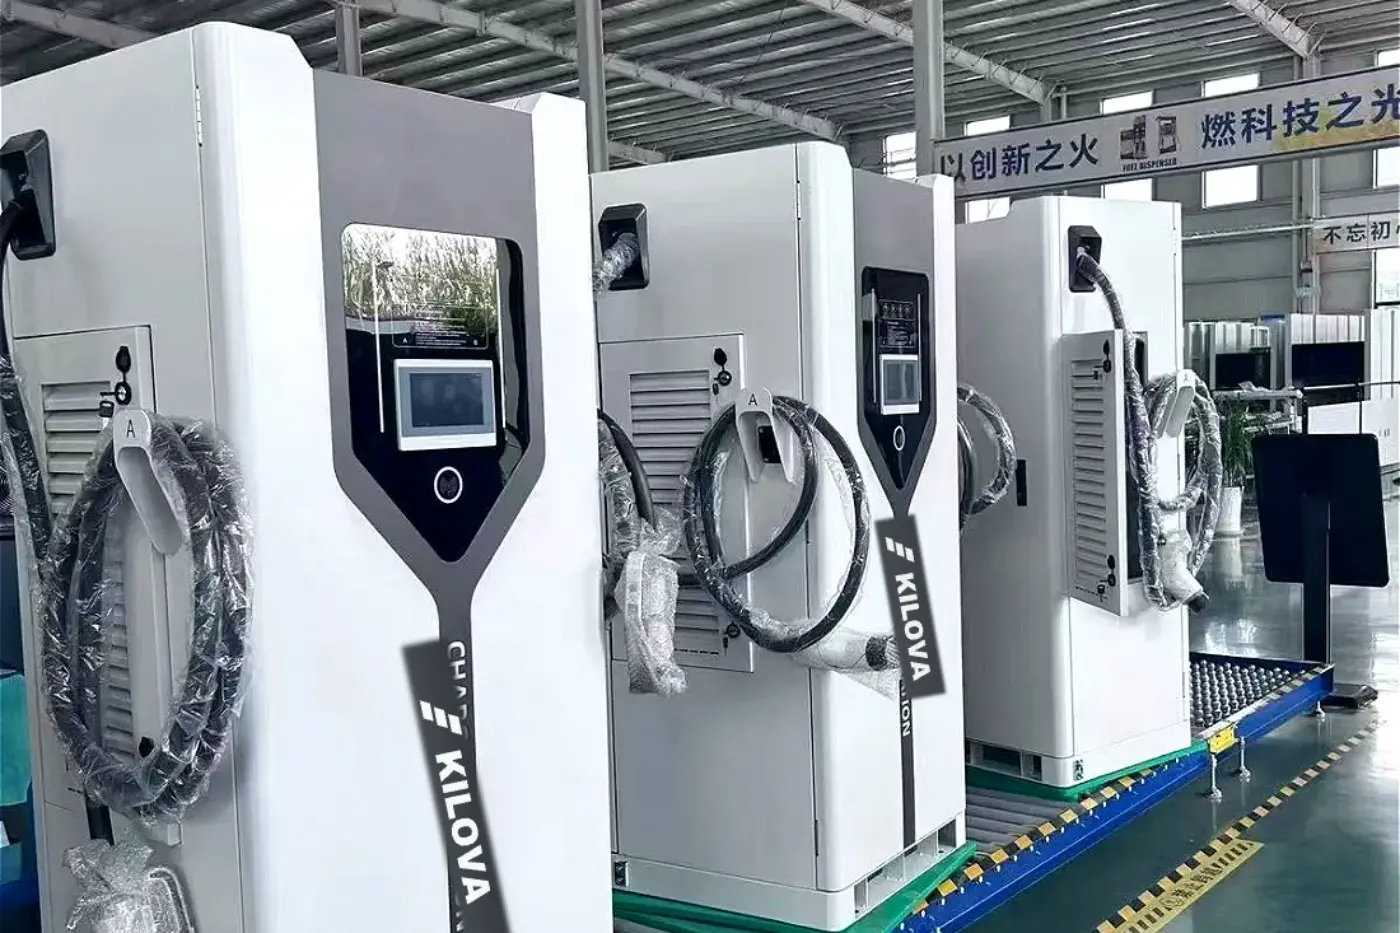
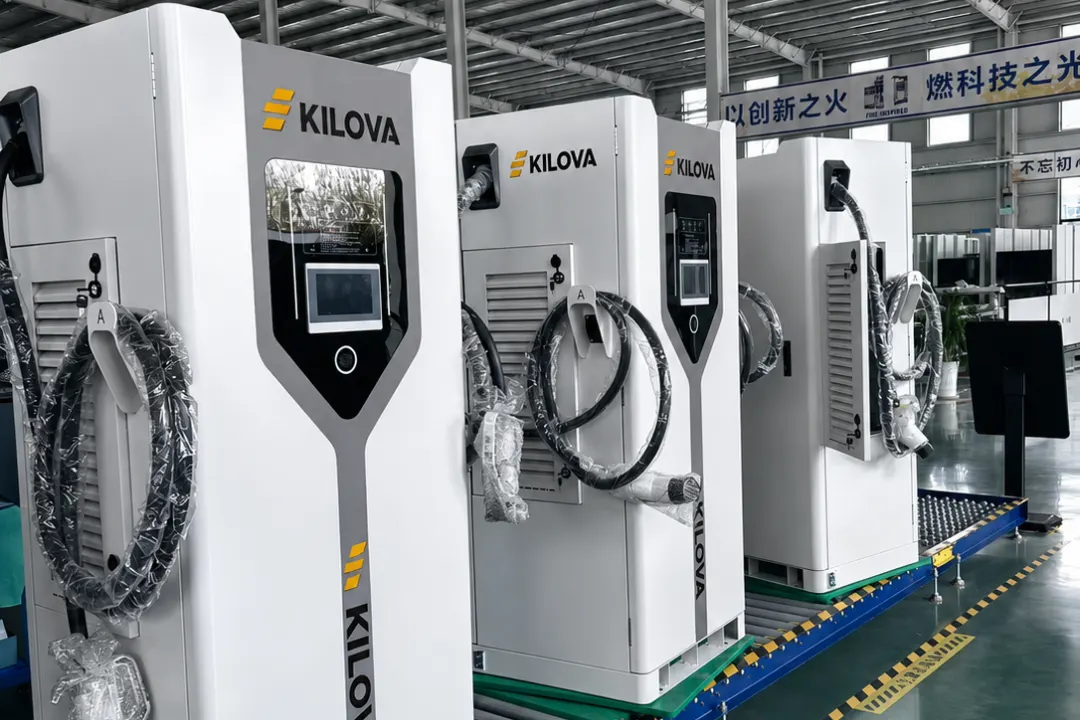
feat(kilova): entram as fotos com a marca aplicada de verdade
Trocadas as nove imagens pelas quatro fotos aprovadas pelo Thiago, cada
modelo com seu recorte. O carimbo torto saiu: o logotipo agora acompanha a
face do gabinete, com o símbolo âmbar e a palavra reta.

diff --git a/dashboard/public/kilova/index.html b/dashboard/public/kilova/index.html
@@ -208,7 +208,7 @@ footer a{text-decoration:underline;text-underline-offset:3px}
     </div>
 
     <figure>
-      <img src="/kilova/img/hero.webp" width="1400" height="933" alt="Linha de carregadores KILOVA de corrente contínua na fábrica, prontos para embarque" fetchpriority="high">
+      <img src="/kilova/img/hero.webp" width="1080" height="720" alt="Três carregadores KILOVA de corrente contínua na linha de produção, prontos para embarque" fetchpriority="high">
     </figure>
   </div>
 </div>
@@ -326,11 +326,11 @@ footer a{text-decoration:underline;text-underline-offset:3px}
 
   <div class="galeria">
     <figure class="foto">
-      <img src="/kilova/img/equipamento.webp" width="900" height="1200" alt="Carregador KILOVA de corrente contínua com dois conectores CCS2 e faixa âmbar" loading="lazy">
+      <img src="/kilova/img/equipamento.webp" width="900" height="1200" alt="Carregador KILOVA de corrente contínua visto de frente, com dois conectores CCS2 e luz âmbar" loading="lazy">
       <figcaption><b>Dois plugues, luz âmbar no encaixe</b>Conector CCS2 dos dois lados e refrigeração ativa: o motorista enxerga onde conectar antes de descer do carro.</figcaption>
     </figure>
     <figure class="foto">
-      <img src="/kilova/img/unidade.webp" width="900" height="1200" alt="Unidade KILOVA embalada sobre palete, pronta para embarque" loading="lazy">
+      <img src="/kilova/img/unidade.webp" width="900" height="1200" alt="Unidade KILOVA sobre palete, com os cabos embalados, pronta para embarque" loading="lazy">
       <figcaption><b>Pronta entrega</b>A unidade está aqui, em pé, embalada. É a diferença entre inaugurar o ponto neste mês e esperar contêiner.</figcaption>
     </figure>
   </div>
